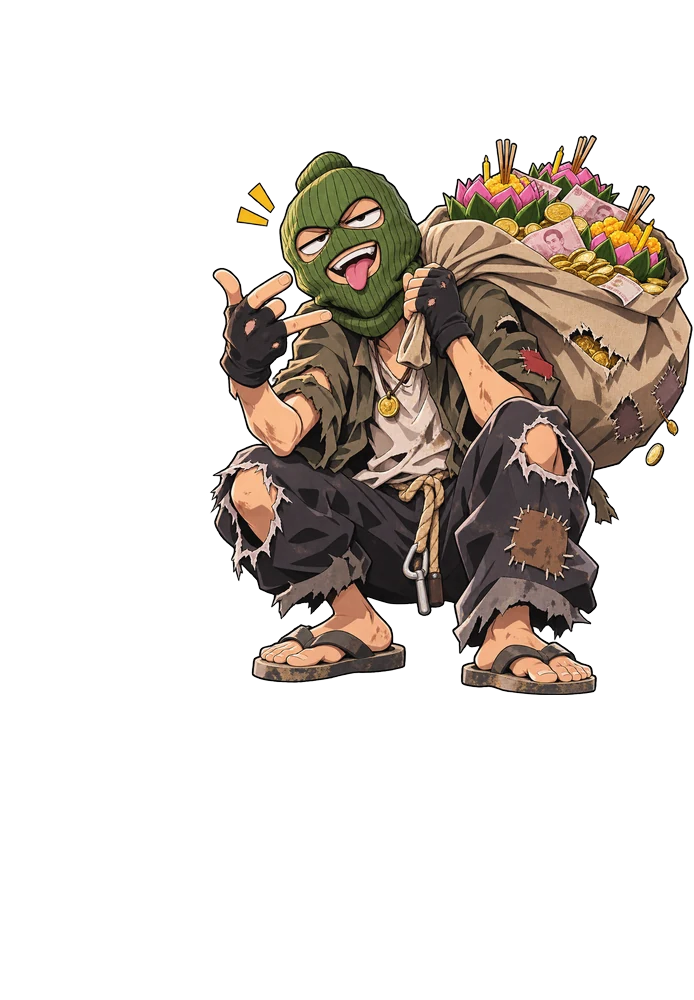
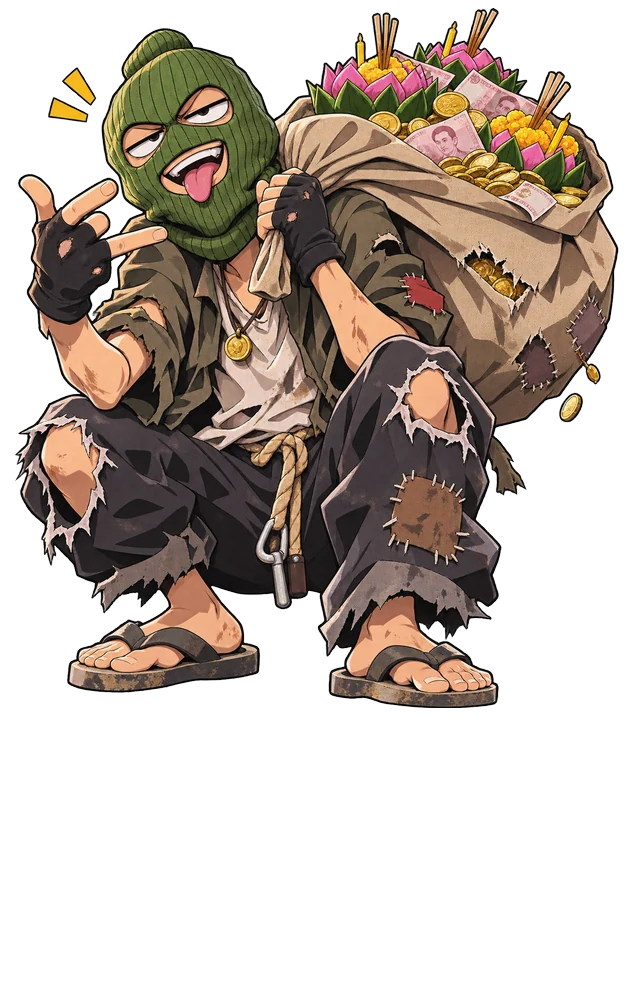
v1.89.24 (silent): scene backgrounds no longer tile on tall phones (the bg-river/temple/cafe/food fallbacks reset background-size); the krathong thief portrait is bigger, head kept on screen
Claude-Session: https://claude.ai/code/session_011mkeerp2u5NNHwrouTgxou

diff --git a/src/style.css b/src/style.css
@@ -2142,3 +2142,5 @@ html[lang=en] .fight .fctl2 .skbtn2 b{font-size:11px;display:-webkit-box;-webkit
 .lwopts{display:grid;gap:8px;margin:8px 0}.lwopts .btn{white-space:normal;text-align:center;opacity:0;animation:ctin .35s ease-out var(--d) forwards}.lwopts .btn.now,.lwq.now{animation-delay:0s}
 .lwq{opacity:0;animation:ctin .35s ease-out var(--d) forwards}
 .lwopts .btn{display:flex;flex-direction:column;align-items:center;gap:2px;line-height:1.35}.lwopts .btn small{font-weight:400}
+/* v1.89.24: the .bg-food/.bg-temple/.bg-cafe/.bg-river fallbacks use the background shorthand, which reset background-size to auto — the scene art tiled and its bottom edge showed again at the top of tall phones */
+.vbg[class*="bg-"]{background-size:cover;background-repeat:no-repeat}
